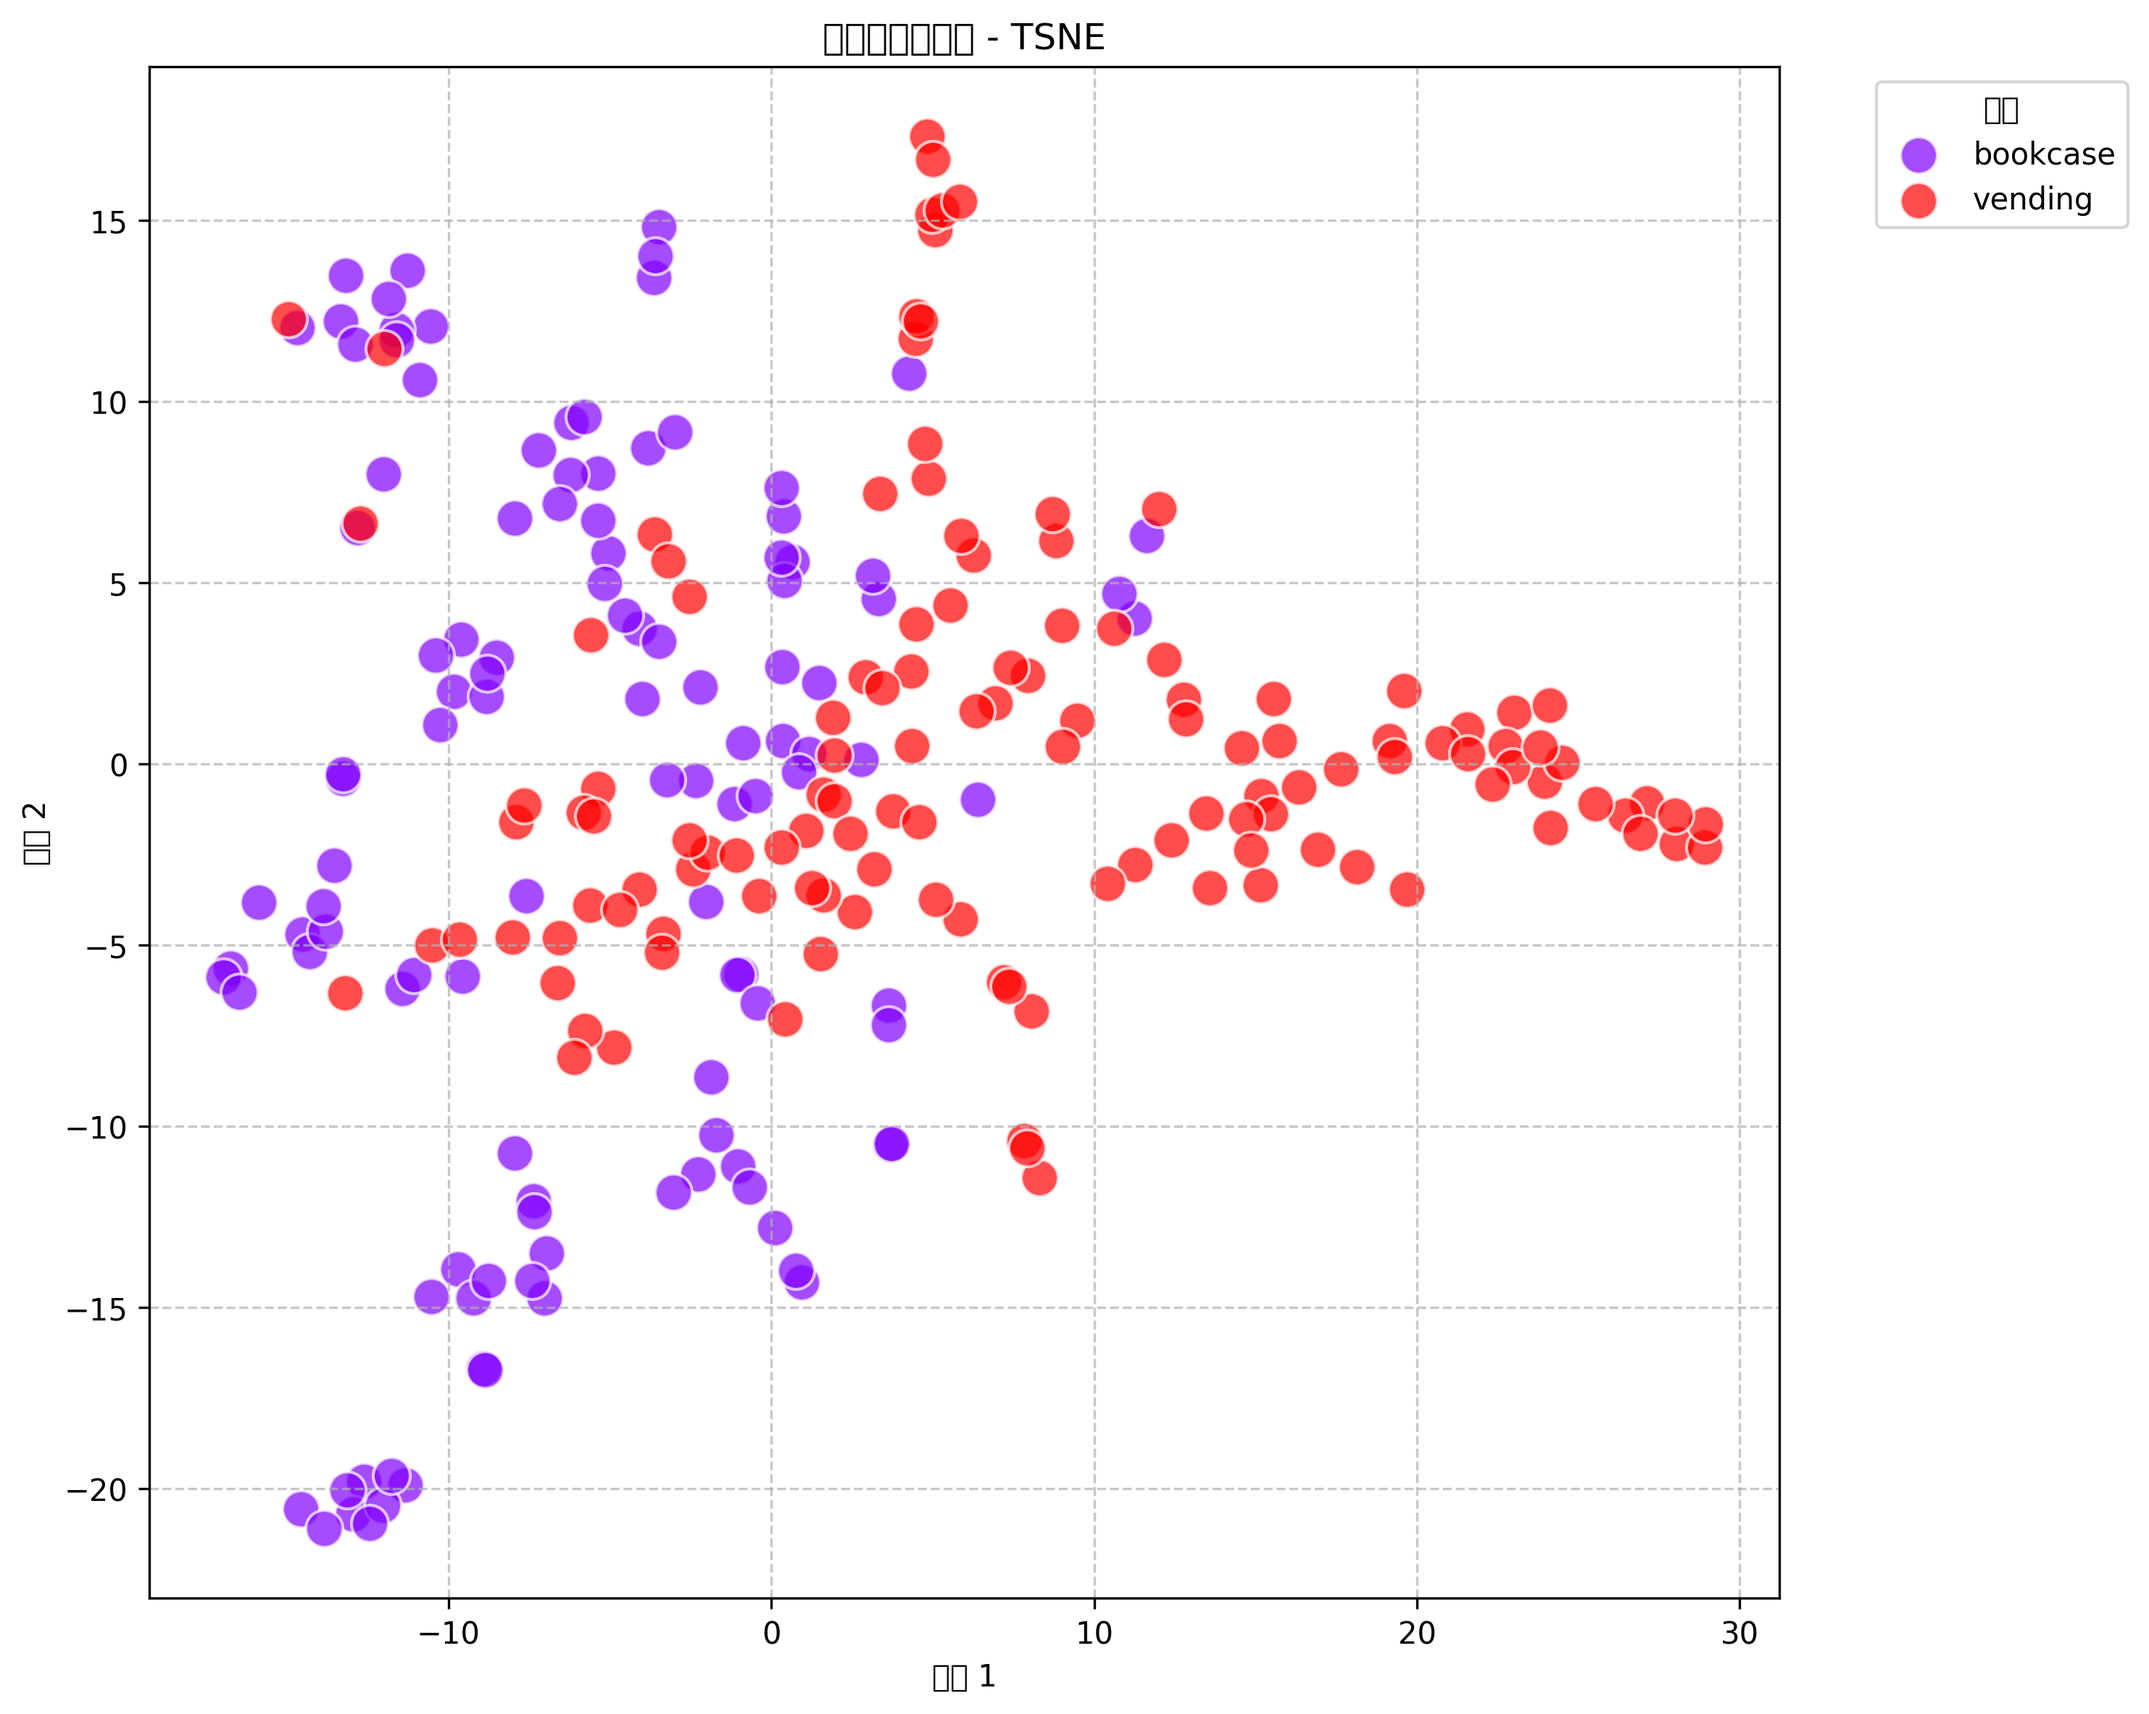
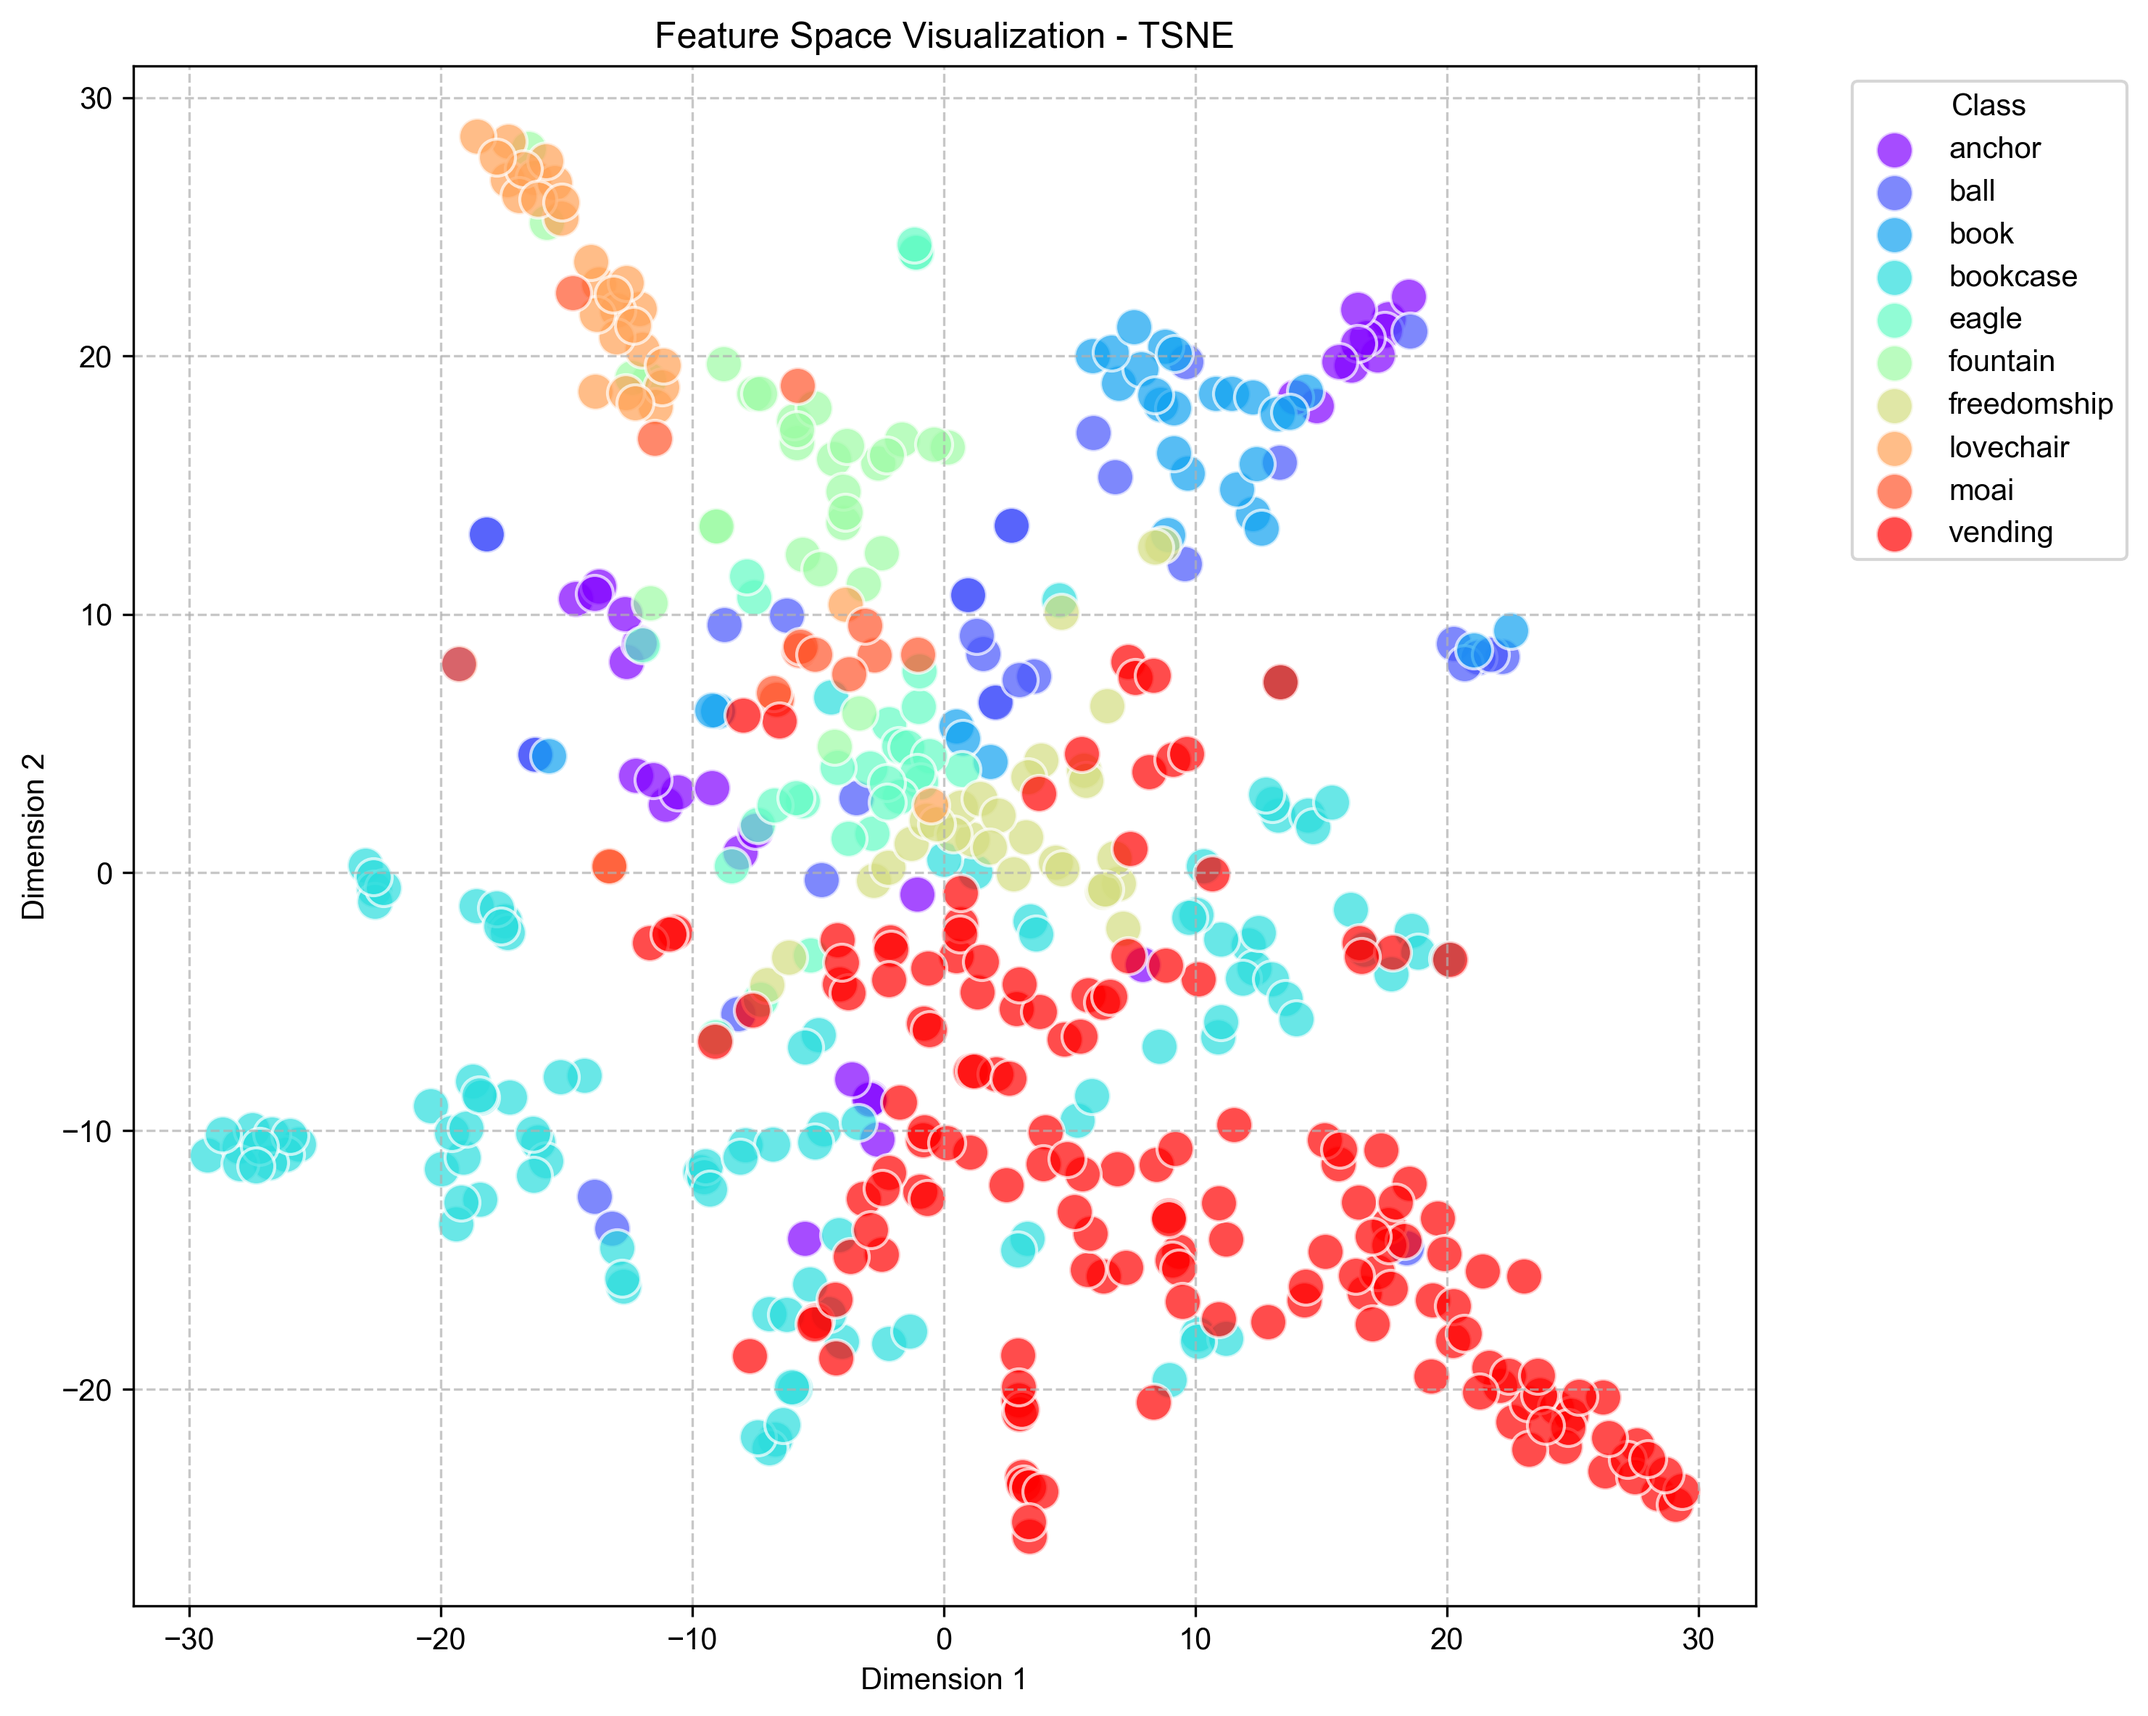
update visual tool

diff --git a/visualization_tools.py b/visualization_tools.py
@@ -46,27 +46,20 @@ def plot_losses(losses_file, save_path='loss_curve.png'):
             losses = [float(line.strip()) for line in f if line.strip()]
 
     plt.figure(figsize=(10, 6))
-    plt.plot(range(1, len(losses) + 1), losses, marker='o', linestyle='-', color='b', label='訓練損失')
-
-    if len(losses) > 5:
-        # 添加移動平均線
-        window_size = min(5, len(losses) // 3)
-        avg_losses = [
-            sum(losses[i:i + window_size]) / window_size
-            for i in range(len(losses) - window_size + 1)
-        ]
-        x_avg = list(range(window_size, window_size + len(avg_losses)))
-        plt.plot(x_avg, avg_losses, 'r--', label=f'{window_size}-輪次移動平均')
+    plt.plot(range(1, len(losses) + 1), losses, marker='o', linestyle='-', color='b', label='Training Loss')
 
     # 顯示最終損失值
     if losses:
-        plt.annotate(f'最終損失: {losses[-1]:.4f}',
-                     xy=(len(losses), losses[-1]),
-                     xytext=(len(losses)-5, losses[-1]+0.1),
-                     arrowprops=dict(arrowstyle="->", connectionstyle="arc3"))
+        final_epoch = len(losses)
+        final_loss = losses[-1]
+        plt.annotate(f'Final Loss: \n{final_loss:.4f}',
+                     xy=(final_epoch, final_loss),
+                     xytext=(final_epoch, final_loss + 0.2),
+                     arrowprops=dict(facecolor='black', shrink=0.05, width=1, headwidth=8),
+                     ha='center', va='bottom')
 
     plt.legend()
-    plt.title('訓練損失曲線')
+    plt.title('Training Loss Curve')
     plt.xlabel('Epoch')
     plt.ylabel('Loss')
     plt.grid(True)
@@ -79,7 +72,7 @@ def visualize_feature_space_from_db(
     db_file,
     data_dir,
     save_path='visualizations/feature_space.png',
-    title='特徵空間視覺化',
+    title='Feature Space Visualization',
     method='tsne',  # 'tsne' 或 'umap'
     random_state=42,
     table_name='features'
@@ -153,10 +146,10 @@ def visualize_feature_space_from_db(
             s=150, alpha=0.7, edgecolors='w'
         )
 
-    plt.legend(title='類別', bbox_to_anchor=(1.05, 1), loc='upper left')
+    plt.legend(title='Class', bbox_to_anchor=(1.05, 1), loc='upper left')
     plt.title(f'{title} - {method.upper()}')
-    plt.xlabel('維度 1')
-    plt.ylabel('維度 2')
+    plt.xlabel('Dimension 1')
+    plt.ylabel('Dimension 2')
     plt.grid(True, linestyle='--', alpha=0.7)
     plt.tight_layout()
     os.makedirs(os.path.dirname(save_path), exist_ok=True)
@@ -169,13 +162,13 @@ def plot_confusion_matrix(query_labels, preds, idx_to_class, save_path='visualiz
     cm = confusion_matrix(query_labels, preds)
     disp = ConfusionMatrixDisplay(cm, display_labels=[idx_to_class[i] for i in range(len(idx_to_class))])
     disp.plot(cmap="Blues")
-    plt.title("查詢集混淆矩陣")
-    plt.xlabel("預測類別")
-    plt.ylabel("真實類別")
+    plt.title("Query Set Confusion Matrix")
+    plt.xlabel("Predicted Label")
+    plt.ylabel("True Label")
     os.makedirs(os.path.dirname(save_path), exist_ok=True)
     plt.savefig(save_path, dpi=300, bbox_inches='tight')
     plt.close()
-    print(f"混淆矩陣已儲存於: {save_path}")
+    print(f"Confusion matrix saved at: {save_path}")
 
 def visualize_attention_maps(model_path, image_path, save_path='visualizations/attention_map.png'):
     """視覺化模型的注意力圖，顯示模型關注的圖像區域"""
@@ -198,9 +191,9 @@ def visualize_attention_maps(model_path, image_path, save_path='visualizations/a
 
     # 定義要提取的層 (根據MobileNetV3的結構選擇不同層級)
     target_layers = {
-        '早期層': backbone.features[4],   # 初始特徵提取層
-        '中期層': backbone.features[8],   # 中間層
-        '後期層': backbone.features[12],  # 後期層
+        'Early Layer': backbone.features[4],   # 初始特徵提取層
+        'Mid Layer': backbone.features[8],   # 中間層
+        'Late Layer': backbone.features[12],  # 後期層
     }
 
     # 保存各層特徵圖
@@ -242,7 +235,7 @@ def visualize_attention_maps(model_path, image_path, save_path='visualizations/a
 
     # 第一個子圖顯示原始圖像
     axes[0, 0].imshow(original_np)
-    axes[0, 0].set_title('原始圖像')
+    axes[0, 0].set_title('Original Image')
     axes[0, 0].axis('off')
 
     # 第一排空出一格
@@ -276,7 +269,7 @@ def visualize_attention_maps(model_path, image_path, save_path='visualizations/a
 
         # 顯示熱力圖
         axes[0, layer_idx].imshow(attention, cmap='jet')
-        axes[0, layer_idx].set_title(f'{name} 熱圖')
+        axes[0, layer_idx].set_title(f'{name} Heatmap')
         axes[0, layer_idx].axis('off')
 
         # 將熱力圖映射為彩色圖
@@ -290,7 +283,7 @@ def visualize_attention_maps(model_path, image_path, save_path='visualizations/a
 
         # 顯示疊加後的圖像
         axes[1, layer_idx].imshow(overlay)
-        axes[1, layer_idx].set_title(f'{name} 疊加於原圖')
+        axes[1, layer_idx].set_title(f'{name} Overlay')
         axes[1, layer_idx].axis('off')
 
     plt.tight_layout()
@@ -338,9 +331,9 @@ def visualize_GCAM_maps(
 
     # 定義要提取的層
     target_layers = {
-        '早期層': model.backbone.features[4],
-        '中期層': model.backbone.features[8],
-        '後期層': model.backbone.features[12],
+        'Early Layer': model.backbone.features[4],
+        'Mid Layer': model.backbone.features[8],
+        'Late Layer': model.backbone.features[12],
     }
 
     # 讀取並預處理圖像
@@ -391,7 +384,7 @@ def visualize_GCAM_maps(
 
     # 顯示原始圖像
     axes[0, 0].imshow(original_np)
-    axes[0, 0].set_title('原始圖像')
+    axes[0, 0].set_title('Original Image')
     axes[0, 0].axis('off')
     axes[1, 0].axis('off')
 
@@ -401,7 +394,7 @@ def visualize_GCAM_maps(
 
         # 顯示熱圖
         axes[0, layer_idx].imshow(heatmap, cmap='jet')
-        axes[0, layer_idx].set_title(f'{name} 熱圖')
+        axes[0, layer_idx].set_title(f'{name} Heatmap')
         axes[0, layer_idx].axis('off')
 
         # 生成疊加圖
@@ -412,7 +405,7 @@ def visualize_GCAM_maps(
 
         # 顯示疊加圖
         axes[1, layer_idx].imshow(overlay)
-        axes[1, layer_idx].set_title(f'{name} 疊加於原圖')
+        axes[1, layer_idx].set_title(f'{name} Overlay')
         axes[1, layer_idx].axis('off')
 
     # 保存結果
@@ -447,10 +440,10 @@ if __name__ == "__main__":
     # 執行視覺化任務
     print("開始視覺化分析...")
 
-    # # 繪製損失曲線
-    # if os.path.exists(losses_file):
-    #     print("繪製訓練損失曲線...")
-    #     plot_losses(losses_file, os.path.join(output_dir, 'loss_curve.png'))
+    # 繪製損失曲線
+    if os.path.exists(losses_file):
+        print("繪製訓練損失曲線...")
+        plot_losses(losses_file, os.path.join(output_dir, 'loss_curve.png'))
 
     # 視覺化特徵空間 (使用已生成的特徵)
     if os.path.exists(features_file):
